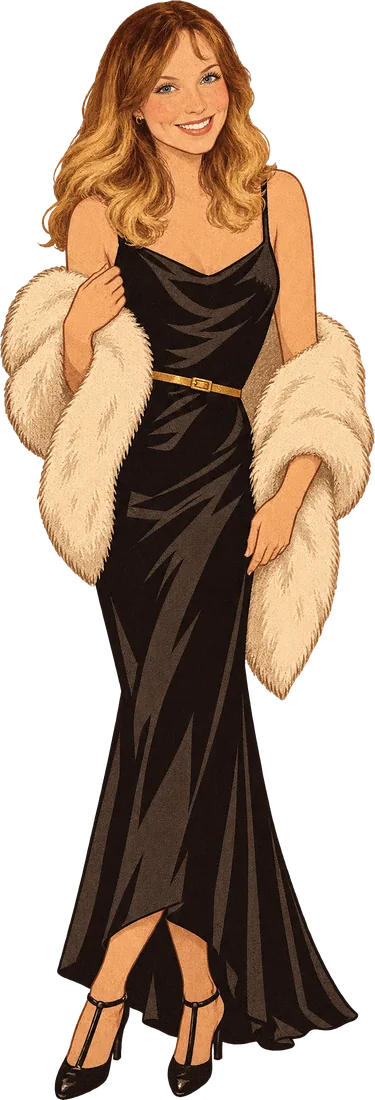
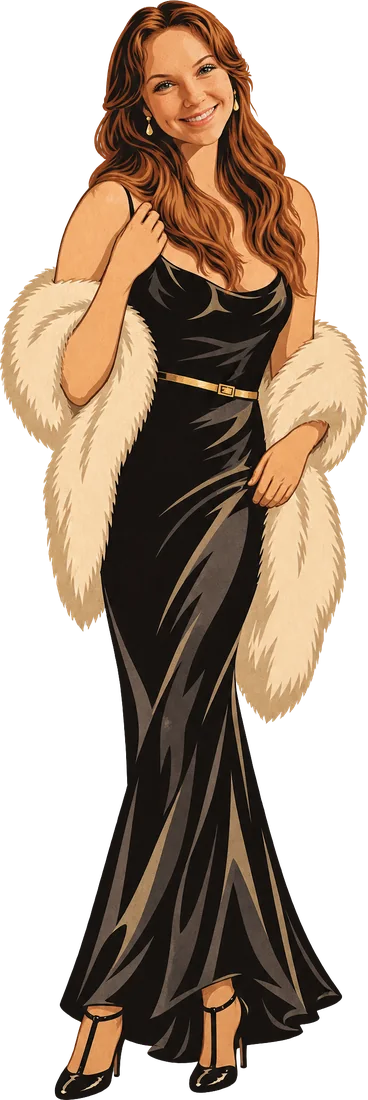
Guest look-alikes: Emily's own drawing, Miranda from a traced portrait
- emily: drawn from her photos in sweetheart's outfit; sweetheart goes back
  to being a regular main-cast character
- miranda: portrait first (keeps her face), then full body from it
- curls stays Heston's look-alike until his own drawing is final

Claude-Session: https://claude.ai/code/session_011n5gPsd4ZZgTYeVzG34PYX

diff --git a/tests/figures.test.ts b/tests/figures.test.ts
@@ -95,8 +95,8 @@ describe("drawn characters: guests pick their own, one guest per drawing", () =>
 });
 
 describe("this party's look-alikes", () => {
-  test("Heston is curls and Emily is sweetheart; every look-alike has its art and face", () => {
-    expect(LOOKALIKES.slice(0, 2)).toEqual([{ key: "curls", name: "Heston" }, { key: "sweetheart", name: "Emily" }]);
+  test("Heston and Emily lead the row; every look-alike has its art and face", () => {
+    expect(LOOKALIKES.slice(0, 2).map((l) => l.name)).toEqual(["Heston", "Emily"]);
     expect(new Set(LOOKALIKES.map((l) => l.key)).size).toBe(LOOKALIKES.length);
     for (const { key } of LOOKALIKES) {
       expect(existsSync(`public/art/${key}.webp`), key).toBe(true);
@@ -126,11 +126,14 @@ describe("this party's look-alikes", () => {
     expect(rest.every((f) => f.name === null)).toBe(true);
     expect(g.slice(1).map((s) => s.label)).toEqual(["Women", "Men"]);
     // A guest takes their own look-alike; it's taken for everyone else.
-    const { token } = await t.mutation(api.registration.register, guest(0, "sweetheart"));
-    expect((await t.query(api.registration.me, { token }))!.figure).toBe("sweetheart");
-    await expect(t.mutation(api.registration.register, guest(1, "sweetheart"))).rejects.toThrow(/Someone just took/);
+    const { token } = await t.mutation(api.registration.register, guest(0, "emily"));
+    expect((await t.query(api.registration.me, { token }))!.figure).toBe("emily");
+    await expect(t.mutation(api.registration.register, guest(1, "emily"))).rejects.toThrow(/Someone just took/);
     const after = (await t.query(api.registration.figures, { slug: SLUG }))!;
-    expect(after[0].figures.find((f) => f.key === "sweetheart")!.taken).toBe(true);
+    expect(after[0].figures.find((f) => f.key === "emily")!.taken).toBe(true);
+    // A look-alike isn't offered when the row is off.
+    await expect(t.mutation(api.host.updateSettings, { slug: SLUG, hostKey, lookalikes: false })).resolves.toBeTruthy();
+    await expect(t.mutation(api.registration.register, guest(2, "miranda"))).rejects.toThrow(/isn't one of tonight's/);
   });
 
   test("test guests never take a real guest's look-alike", async () => {

diff --git a/convex/figures.ts b/convex/figures.ts
@@ -15,12 +15,13 @@ export const FIGURE_KEYS = FIGURE_SETS.flatMap((s) => s.keys);
 
 /** This party's look-alikes (Heston, Oct 14): drawings of the real guests. A game with
  *  `lookalikes` on shows them in their own "Tonight's guests" row, each labeled with the person's
- *  name (honor system: anyone could tap one, the label says whose it is). Curls is Heston and
- *  sweetheart is Emily; they're in the main cast too, so in a look-alike game they move up to this
- *  row, and in other games they're regular characters. Add a guest: art in public/art(/faces), then a line here. */
+ *  name (honor system: anyone could tap one, the label says whose it is). A main-cast drawing can
+ *  stand in for someone (curls is Heston's until his own look-alike is final): in a look-alike game
+ *  it moves up to this row, and in other games it's a regular character again.
+ *  Add a guest: art in public/art(/faces), then a line here. */
 export const LOOKALIKES: { key: string; name: string }[] = [
   { key: "curls", name: "Heston" },
-  { key: "sweetheart", name: "Emily" },
+  { key: "emily", name: "Emily" },
   { key: "miranda", name: "Miranda" },
   { key: "sam", name: "Sam" },
   { key: "reily", name: "Reily" },
